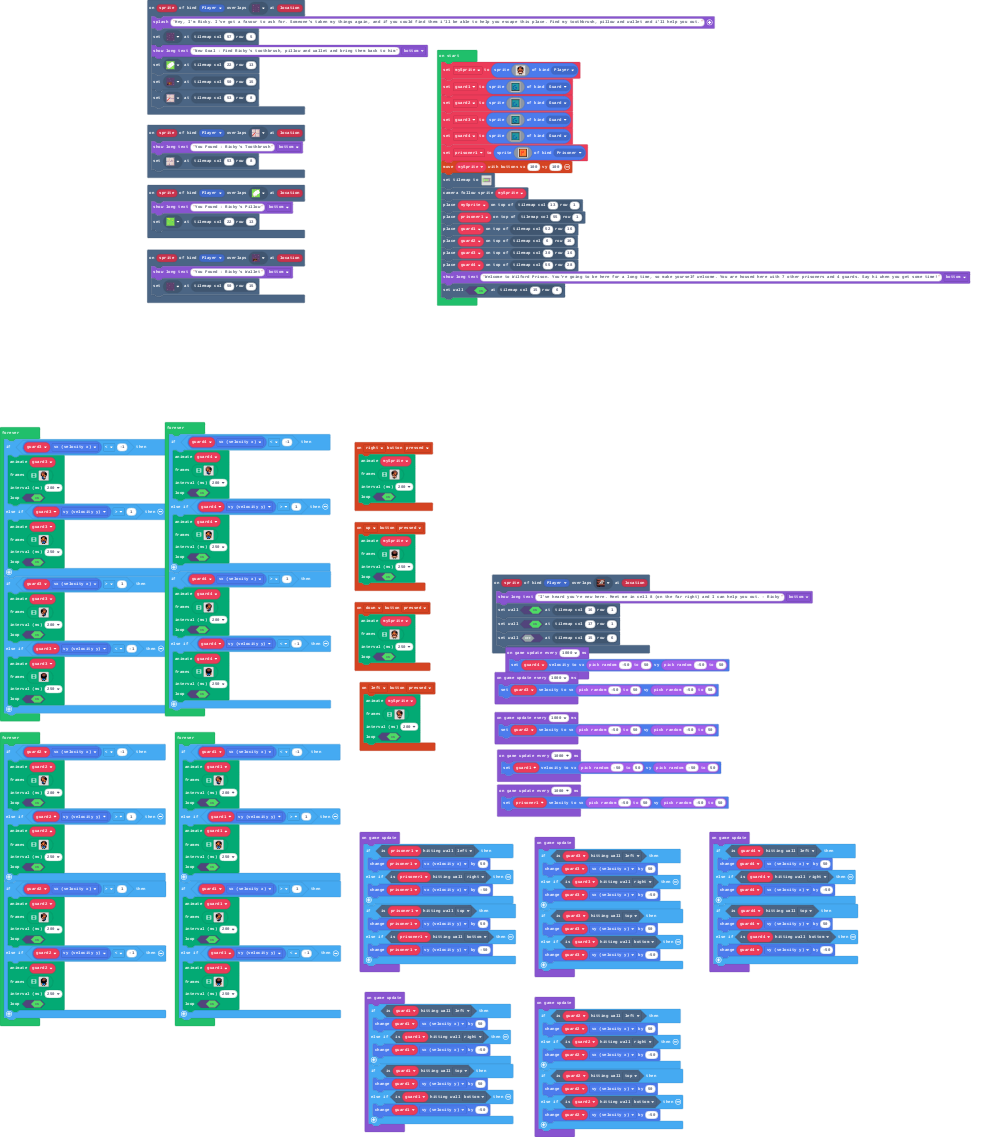
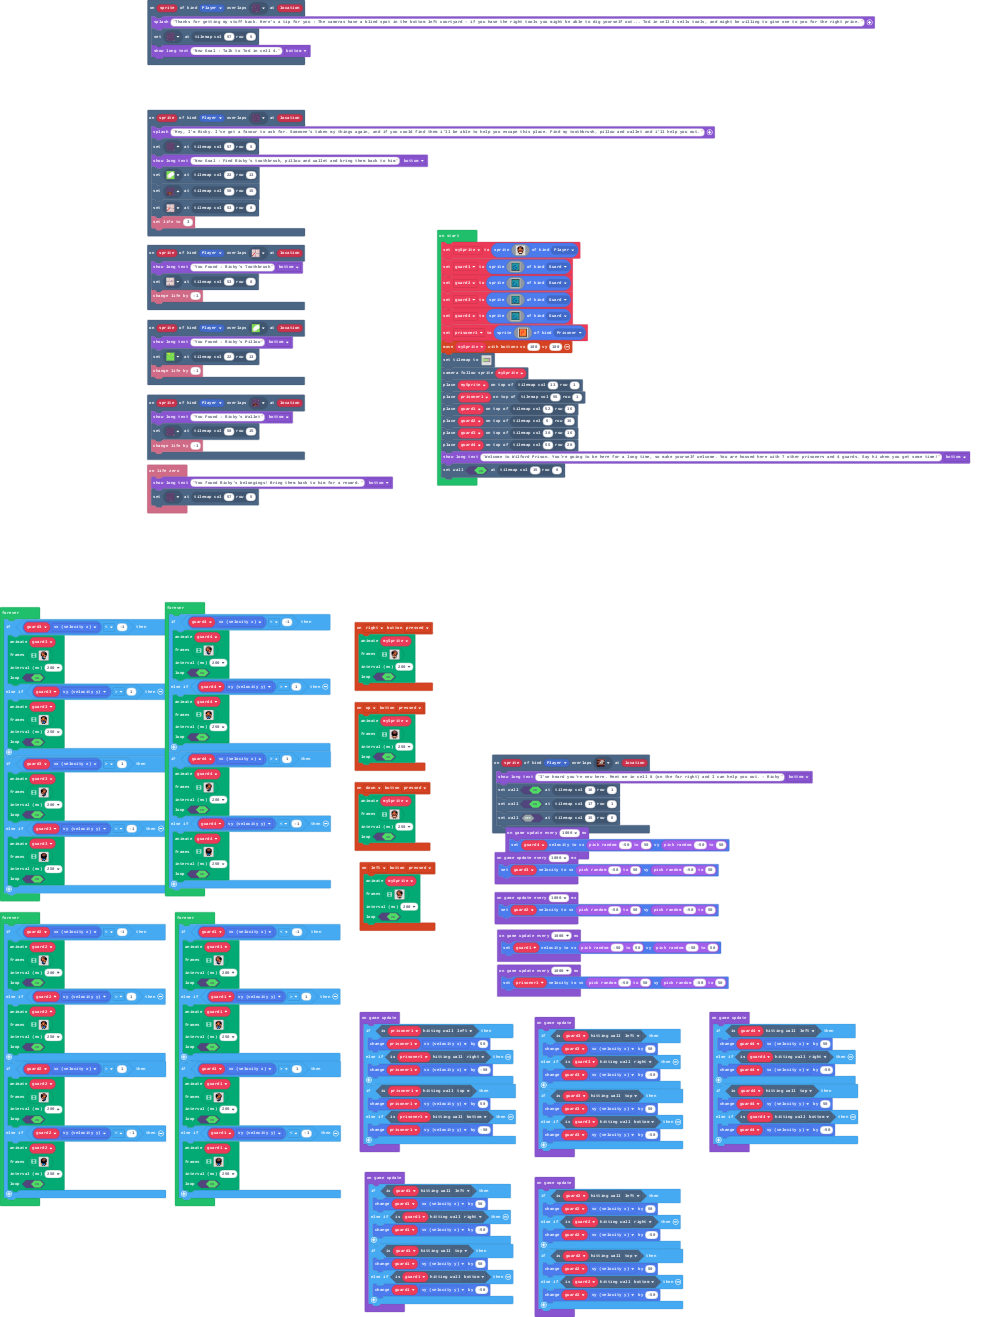
Story Updates

diff --git a/main.ts b/main.ts
@@ -61,13 +61,20 @@ controller.up.onEvent(ControllerButtonEvent.Pressed, function () {
     true
     )
 })
+scene.onOverlapTile(SpriteKind.Player, assets.tile`myTile34`, function (sprite, location) {
+    game.splash("Thanks for getting my stuff back. Here's a tip for you : The cameras have a blind spot in the bottom left courtyard - if you have the right tools you might be able to dig yourself out... Tod in cell 4 sells tools, and might be willing to give one to you for the right price.")
+    tiles.setTileAt(tiles.getTileLocation(57, 5), sprites.dungeon.darkGroundNorthWest1)
+    game.showLongText("New Goal : Talk to Tod in cell 4.", DialogLayout.Bottom)
+})
 scene.onOverlapTile(SpriteKind.Player, assets.tile`myTile32`, function (sprite, location) {
     game.showLongText("You Found : Ricky's Wallet", DialogLayout.Bottom)
     tiles.setTileAt(tiles.getTileLocation(50, 15), sprites.dungeon.darkGroundNorthWest1)
+    info.changeLifeBy(-1)
 })
 scene.onOverlapTile(SpriteKind.Player, assets.tile`myTile33`, function (sprite, location) {
     game.showLongText("You Found : Ricky's Toothbrush", DialogLayout.Bottom)
     tiles.setTileAt(tiles.getTileLocation(53, 8), sprites.dungeon.floorLight1)
+    info.changeLifeBy(-1)
 })
 controller.left.onEvent(ControllerButtonEvent.Pressed, function () {
     animation.runImageAnimation(
@@ -252,9 +259,14 @@ controller.down.onEvent(ControllerButtonEvent.Pressed, function () {
     true
     )
 })
+info.onLifeZero(function () {
+    game.showLongText("You found Ricky's belongings! Bring them back to him for a reward.", DialogLayout.Bottom)
+    tiles.setTileAt(tiles.getTileLocation(57, 5), assets.tile`myTile34`)
+})
 scene.onOverlapTile(SpriteKind.Player, assets.tile`myTile31`, function (sprite, location) {
     game.showLongText("You Found : Ricky's Pillow", DialogLayout.Bottom)
     tiles.setTileAt(tiles.getTileLocation(22, 13), sprites.castle.tileGrass1)
+    info.changeLifeBy(-1)
 })
 scene.onOverlapTile(SpriteKind.Player, assets.tile`myTile30`, function (sprite, location) {
     game.splash("Hey, I'm Ricky. I've got a favour to ask for. Someone's taken my things again, and if you could find them i'll be able to help you escape this place. Find my toothbrush, pillow and wallet and i'll help you out.")
@@ -263,6 +275,7 @@ scene.onOverlapTile(SpriteKind.Player, assets.tile`myTile30`, function (sprite, 
     tiles.setTileAt(tiles.getTileLocation(22, 13), assets.tile`myTile31`)
     tiles.setTileAt(tiles.getTileLocation(50, 15), assets.tile`myTile32`)
     tiles.setTileAt(tiles.getTileLocation(53, 8), assets.tile`myTile33`)
+    info.setLife(3)
 })
 let mySprite: Sprite = null
 mySprite = sprites.create(assets.image`Sprite`, SpriteKind.Player)

diff --git a/tilemap.g.ts b/tilemap.g.ts
@@ -74,6 +74,8 @@ namespace myTiles {
     export const tile35 = image.ofBuffer(hex``);
     //% fixedInstance jres blockIdentity=images._tile
     export const tile36 = image.ofBuffer(hex``);
+    //% fixedInstance jres blockIdentity=images._tile
+    export const tile37 = image.ofBuffer(hex``);
 
     helpers._registerFactory("tilemap", function(name: string) {
         switch(helpers.stringTrim(name)) {
@@ -225,7 +227,7 @@ namespace myTiles {
 2...........2...................2.....2..........2..........2
 2...........2...................2.....2..........2..........2
 2222222222222222222222222222222222222222222222222222222222222
-`, [myTiles.transparency16,myTiles.tile9,myTiles.tile13,myTiles.tile16,myTiles.tile17,myTiles.tile20,myTiles.tile21,myTiles.tile7,myTiles.tile8,sprites.castle.tileGrass1,myTiles.tile10,myTiles.tile11,myTiles.tile12,myTiles.tile15,myTiles.tile6,myTiles.tile23,sprites.dungeon.darkGroundNorthWest1,sprites.dungeon.floorLight4,sprites.castle.tileGrass3,sprites.castle.tileGrass2,sprites.dungeon.floorLightMoss,sprites.dungeon.floorLight5,sprites.dungeon.floorLight1,myTiles.tile25,myTiles.tile26,myTiles.tile27,myTiles.tile28,myTiles.tile29,myTiles.tile31,myTiles.tile30,myTiles.tile32,myTiles.tile33,myTiles.tile34,myTiles.tile35,myTiles.tile36], TileScale.Sixteen);
+`, [myTiles.transparency16,myTiles.tile9,myTiles.tile13,myTiles.tile16,myTiles.tile17,myTiles.tile20,myTiles.tile21,myTiles.tile7,myTiles.tile8,sprites.castle.tileGrass1,myTiles.tile10,myTiles.tile11,myTiles.tile12,myTiles.tile15,myTiles.tile6,myTiles.tile23,sprites.dungeon.darkGroundNorthWest1,sprites.dungeon.floorLight4,sprites.castle.tileGrass3,sprites.castle.tileGrass2,sprites.dungeon.floorLightMoss,sprites.dungeon.floorLight5,sprites.dungeon.floorLight1,myTiles.tile25,myTiles.tile26,myTiles.tile27,myTiles.tile28,myTiles.tile29,myTiles.tile31,myTiles.tile30,myTiles.tile32,myTiles.tile33,myTiles.tile37], TileScale.Sixteen);
         }
         return null;
     })
@@ -305,6 +307,8 @@ namespace myTiles {
             case "tile35":return tile35;
             case "myTile33":
             case "tile36":return tile36;
+            case "myTile34":
+            case "tile37":return tile37;
         }
         return null;
     })
